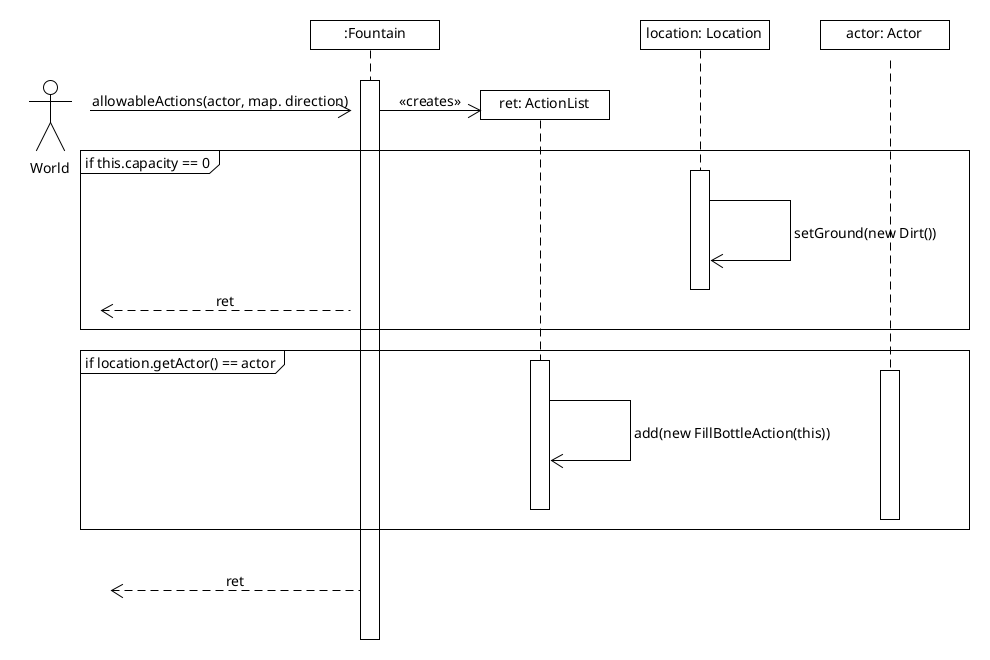
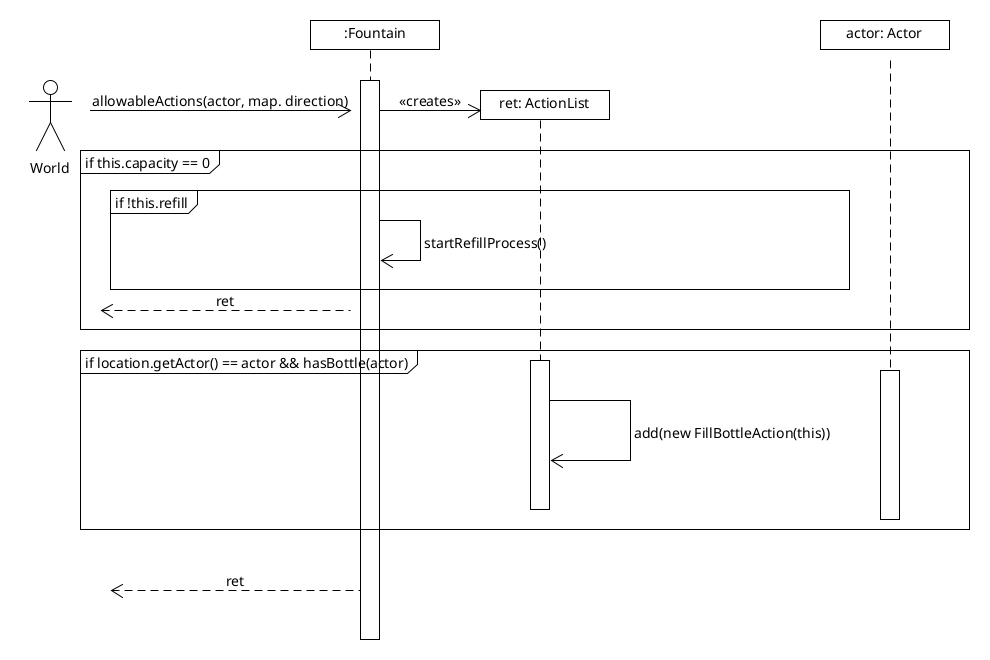
Updated sequence diagrams of REQ3

diff --git a/src/game/positions/Fountain/Fountain.java b/src/game/positions/Fountain/Fountain.java
@@ -57,13 +57,29 @@ public abstract class Fountain extends Ground {
         this.addCapability(Status.CAN_BE_DRUNK);
     }
 
+    /**
+     * Starts the timer for the Fountain to refill its contents of liquids.
+     */
+    private void startRefillProcess() {
+        this.refill = true;
+        this.refillCounter = this.REFILL_TICKS;
+    }
+
+    /**
+     * Stops the timer for the Fountain to refill its contents of liquids.
+     * and adds the contents to its maximum amount of liquid in the fountain.
+     */
+    private void stopRefillProcess() {
+        this.refill = false;
+        this.capacity = this.maxCapacity;
+    }
+
     @Override
     public ActionList allowableActions(Actor actor, Location location, String direction) {
         ActionList ret = new ActionList();
         if (this.capacity == 0) {
             if (!this.refill) {
-                this.refill = true;
-                this.refillCounter = this.REFILL_TICKS;
+                this.startRefillProcess();
             }
             return ret;
         }
@@ -79,8 +95,7 @@ public abstract class Fountain extends Ground {
         if (this.refill) {
             this.refillCounter--;
             if (this.refillCounter == 0) {
-                this.refill = false;
-                this.capacity = this.maxCapacity;
+                this.stopRefillProcess();
             }
         }
     }

diff --git a/design-docs/Ass3_REQ3_DesignRationale.md b/design-docs/Ass3_REQ3_DesignRationale.md
@@ -12,6 +12,9 @@ For reference, here are the class diagrams and sequence diagrams.
 ![ass 3 req3 sequence_02](./Ass3_REQ3_sequence_02.png "Ass 3 REQ3 Sequence Diagram 1")
 
 ## Rationale  
+I have also implemented the optional challenges, hence the Player does not start with a Bottle and instead Mario has to 
+obtain the Bottle from Toad by talking to him (Select "Player talks with Toad").
+
 ### Water classes
 The `Consumable` class already existed and had similar properties as the new `Power Water` and `Healing Water` would have:
 They're both something you can "pick up", they have an effect when you "consume" them, they have similar menu
